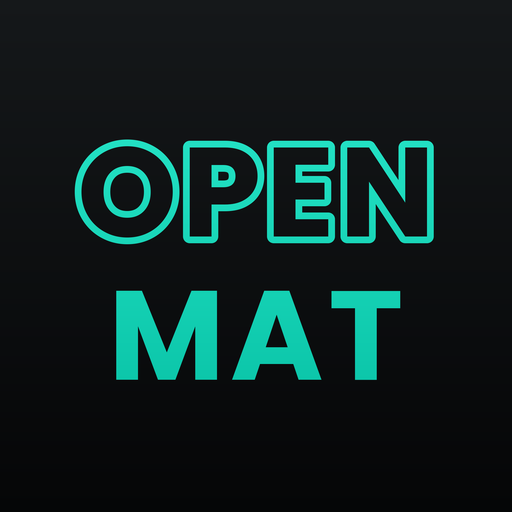
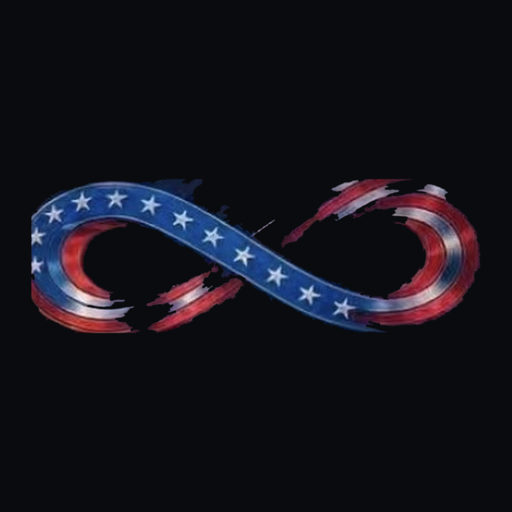
The gym's mark, on the home screen
The icon was still OM — the initials of a name the app no longer has.
It is the Infiniti Kryos infinity mark now, taken from the gym's own
banner.

The mark is cut out onto transparency rather than cropped, because a
crop brings the banner's navy background with it and the icon reads as
a photograph stuck on a tile instead of a mark. Isolating it meant
separating on brightness OR saturation — a brightness threshold alone
ate the dark red edges — then keeping only the largest connected shape,
which dropped 162 specks of glare and banner fold that had passed the
threshold on their own.

Two shapes of icon, because they are not the same job. The normal ones
fill the tile, which is what iOS and a browser tab show. The maskable
ones sit inside the middle 62%, because Android crops the tile to the
launcher's shape and a mark touching the edge loses its ends.

brand-mark.png is committed rather than regenerated. The cutout came
from a 400px photo and this script could not reproduce it from the
original; if a cleaner logo file turns up, that is the one file to
replace.

The ?v= on every icon URL moved to 3 and the service worker's cache key
to v2. Both serve icons cache-first, so without that every phone with
the app installed keeps showing OM forever.

Claude-Session: https://claude.ai/code/session_01WcCDF7k32sjg8mR2SFNU9X

Changed region(s): [[0.0625, 0.25, 0.9375, 0.75]]

diff --git a/index.html b/index.html
@@ -34,10 +34,10 @@
     <meta name="twitter:image" content="https://open-mat.pages.dev/share-card.png" />
     <meta name="apple-mobile-web-app-capable" content="yes" />
     <link rel="manifest" href="/manifest.webmanifest" />
-    <link rel="icon" type="image/x-icon" href="/favicon.ico?v=2" />
-    <link rel="icon" type="image/png" sizes="32x32" href="/favicon-32.png?v=2" />
-    <link rel="icon" type="image/png" sizes="16x16" href="/favicon-16.png?v=2" />
-    <link rel="apple-touch-icon" href="/apple-touch-icon.png?v=2" />
+    <link rel="icon" type="image/x-icon" href="/favicon.ico?v=3" />
+    <link rel="icon" type="image/png" sizes="32x32" href="/favicon-32.png?v=3" />
+    <link rel="icon" type="image/png" sizes="16x16" href="/favicon-16.png?v=3" />
+    <link rel="apple-touch-icon" href="/apple-touch-icon.png?v=3" />
     <link rel="preconnect" href="https://fonts.googleapis.com" />
     <link rel="preconnect" href="https://fonts.gstatic.com" crossorigin />
     <link href="https://fonts.googleapis.com/css2?family=Caveat:wght@500;600&family=Oswald:wght@400;500;600;700&family=Inter:wght@400;500;600;700;800&display=swap" rel="stylesheet" />

diff --git a/public/sw.js b/public/sw.js
@@ -22,7 +22,7 @@
 //     Supabase is a different origin and never goes near this cache. Training
 //     data syncs the way it always did; this only makes the shell openable.
 
-const CACHE = "infiniti-kryos-shell-v1";
+const CACHE = "infiniti-kryos-shell-v2";
 const SHELL = ["/", "/index.html"];
 
 self.addEventListener("install", (event) => {

diff --git a/scripts/make-icons.py b/scripts/make-icons.py
@@ -1,118 +1,67 @@
 #!/usr/bin/env python3
-"""Open Mat's icons, drawn here rather than exported from anywhere.
+"""Infiniti Kryos's icons, composited from the gym's own mark.
 
-The mark is the name: OPEN outlined above MAT solid, teal on near-black. The
-icon this replaced had STRENGTH MATRIX set small and grey around a dumbbell,
-which is two problems — the wrong name, and lettering too small to read at the
-size an app icon is actually seen. This is set to fill the tile, so it still
-reads on a home screen and in a browser tab.
+The previous icons were lettering: OPEN above MAT, dropping to an OM monogram
+at favicon sizes. The app is named after the gym now and carries the gym's
+mark, so the icons do too.
 
-The favicons drop to an OM monogram. Two words cannot survive sixteen pixels,
-and a smudge is worse than a smaller mark.
+scripts/brand-mark.png is the infinity symbol lifted off the banner photo Kyle
+supplied and cut out onto transparency. It is committed rather than
+regenerated, because the cutout came from a 400px photo and is not something
+this script could reproduce from the original: if a cleaner logo file ever
+turns up, replace brand-mark.png and run this again.
 
-Everything is drawn at 4x and reduced with LANCZOS: PIL's own antialiasing on
-letterforms this heavy is not good enough to put on somebody's home screen.
+Two shapes of icon, and the difference matters:
+
+  normal     the mark fills the tile, because iOS and the browser tab show the
+             square as drawn.
+  maskable   Android crops the tile to whatever shape the launcher uses, often
+             a circle, so the mark sits inside the middle ~62% or its ends get
+             cut off.
+
+Everything is drawn at 4x and reduced with LANCZOS.
 
   python3 scripts/make-icons.py
 """
-from PIL import Image, ImageDraw, ImageFont
+from PIL import Image
+import os
 
-OUT = "public"
+HERE = os.path.dirname(os.path.abspath(__file__))
+ROOT = os.path.dirname(HERE)
+OUT = os.path.join(ROOT, "public")
+MARK = os.path.join(HERE, "brand-mark.png")
 SS = 4
-FONT = "/usr/share/fonts/truetype/google-fonts/Poppins-Bold.ttf"
-BG_TOP, BG_BOTTOM = (21, 24, 26), (5, 6, 7)
-T_TOP, T_BOT = (47, 240, 210), (0, 184, 156)
+# The app's own near-black, so the icon and the first screen agree.
+BG = (10, 11, 14)
+
+mark = Image.open(MARK)
 
 
-def vgrad(size, top, bottom):
-    g = Image.new("RGB", (1, size), bottom)
-    px = g.load()
-    for y in range(size):
-        t = y / max(size - 1, 1)
-        px[0, y] = tuple(round(top[i] + (bottom[i] - top[i]) * t) for i in range(3))
-    return g.resize((size, size), Image.BILINEAR)
-
-
-def _widths(text, font):
-    d = ImageDraw.Draw(Image.new("L", (8, 8)))
-    out = []
-    for ch in text:
-        bb = d.textbbox((0, 0), ch, font=font, anchor="lt")
-        out.append((bb[2] - bb[0], bb[0]))
-    return out
-
-
-def fit(text, box_w, tracking):
-    """The largest size at which the line still fits the box, tracking included."""
-    lo, hi = 10, 4000
-    while lo < hi:
-        mid = (lo + hi + 1) // 2
-        f = ImageFont.truetype(FONT, mid)
-        w = sum(w for w, _ in _widths(text, f)) + tracking * mid * (len(text) - 1)
-        if w <= box_w:
-            lo = mid
-        else:
-            hi = mid - 1
-    return ImageFont.truetype(FONT, lo)
-
-
-def line(size, text, font, tracking, cy, outline=0):
-    """One line, letter-spaced by hand and centred on its own ink rather than
-    on the font's metrics, which are full of space this mark does not use."""
-    layer = Image.new("L", (size, size), 0)
-    d = ImageDraw.Draw(layer)
-    ws = _widths(text, font)
-    total = sum(w for w, _ in ws) + tracking * font.size * (len(text) - 1)
-    x = size / 2 - total / 2
-    for ch, (w, lsb) in zip(text, ws):
-        if outline:
-            d.text((x - lsb, cy), ch, font=font, fill=0, anchor="lm",
-                   stroke_width=outline, stroke_fill=255)
-        else:
-            d.text((x - lsb, cy), ch, font=font, fill=255, anchor="lm")
-        x += w + tracking * font.size
-    return layer
-
-
-def wordmark(size, s=1.0):
-    m = Image.new("L", (size, size), 0)
-    box = size * 0.70 * s
-    f = min((fit("OPEN", box, 0.04), fit("MAT", box, 0.04)), key=lambda f: f.size)
-    m.paste(255, (0, 0), line(size, "OPEN", f, 0.04, size / 2 - size * 0.125 * s,
-                              outline=max(1, round(size * 0.013 * s))))
-    m.paste(255, (0, 0), line(size, "MAT", f, 0.04, size / 2 + size * 0.155 * s))
-    return m
-
-
-def monogram(size, s=1.0):
-    f = fit("OM", size * 0.74 * s, -0.04)
-    return line(size, "OM", f, -0.04, size / 2)
-
-
-def plate(size, mark, s=1.0):
+def tile(size, fill):
     big = size * SS
-    base = vgrad(big, BG_TOP, BG_BOTTOM)
-    base.paste(vgrad(big, T_TOP, T_BOT), (0, 0), mark(big, s))
-    return base.resize((size, size), Image.LANCZOS)
+    t = Image.new("RGB", (big, big), BG)
+    want = int(big * fill)
+    scale = want / mark.width
+    m = mark.resize((max(1, int(mark.width * scale)),
+                     max(1, int(mark.height * scale))), Image.LANCZOS)
+    t.paste(m, ((big - m.width) // 2, (big - m.height) // 2), m)
+    return t.resize((size, size), Image.LANCZOS)
 
 
-def write(name, img):
-    img.save(f"{OUT}/{name}")
-    print(f"  {name}  {img.size[0]}x{img.size[1]}")
+def main():
+    tile(192, 0.88).save(os.path.join(OUT, "icon-192.png"))
+    tile(512, 0.88).save(os.path.join(OUT, "icon-512.png"))
+    tile(192, 0.62).save(os.path.join(OUT, "icon-192-maskable.png"))
+    tile(512, 0.62).save(os.path.join(OUT, "icon-512-maskable.png"))
+    tile(180, 0.88).save(os.path.join(OUT, "apple-touch-icon.png"))
+    tile(32, 0.92).save(os.path.join(OUT, "favicon-32.png"))
+    tile(16, 0.96).save(os.path.join(OUT, "favicon-16.png"))
+    tile(64, 0.92).save(os.path.join(OUT, "favicon.ico"),
+                        sizes=[(16, 16), (32, 32), (48, 48)])
+    print("icons written to", OUT)
+    print("remember to bump the ?v= on the icon URLs in index.html and the")
+    print("manifest, or every phone that already has the app keeps the old one")
 
 
-print("Open Mat icons")
-# Full bleed, no corners baked in: iOS and Android apply their own mask, and a
-# rounded square sitting inside their rounding leaves a dark rim around it.
-write("icon-512.png", plate(512, wordmark))
-write("icon-192.png", plate(192, wordmark))
-write("apple-touch-icon.png", plate(180, wordmark))
-# Maskable: Android crops these to whatever shape it likes, so the mark sits
-# inside the safe circle — 80% of the tile — rather than being bitten into.
-write("icon-512-maskable.png", plate(512, wordmark, 0.72))
-write("icon-192-maskable.png", plate(192, wordmark, 0.72))
-# A tab is not a home screen.
-write("favicon-32.png", plate(32, monogram))
-write("favicon-16.png", plate(16, monogram))
-plate(64, monogram).save(f"{OUT}/favicon.ico", sizes=[(16, 16), (32, 32), (48, 48)])
-print("  favicon.ico  16/32/48")
+if __name__ == "__main__":
+    main()
